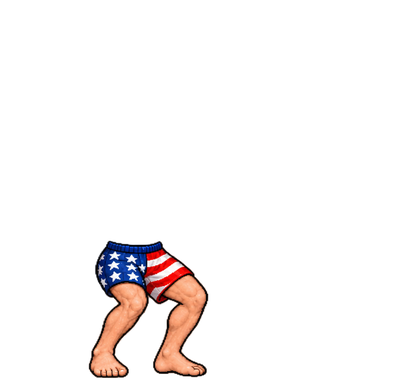
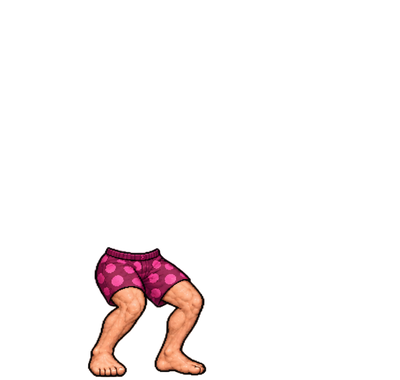
Kunte's bare shorts are polka dots in every pose
Attack and block use the polka shorts cell from the atlas; the standing pose recolors the shared body's shorts to the same magenta polka pattern. Espa keeps the flag shorts.

Claude-Session: https://claude.ai/code/session_012zVcprR4KorysHkABMXdfX

Changed region(s): [[0.21, 0.6368, 0.54, 1.0]]

diff --git a/farmeando/public/game.js b/farmeando/public/game.js
@@ -795,8 +795,8 @@ function loop(now) { const dt = Math.min(0.05, (now - last) / 1000 || 0); last =
   await Promise.all([
     ...['kunte', 'espa'].flatMap(c => ['guard', 'attack', 'block', 'hit', 'win1', 'win2'].map(p => loadImg(c + '_' + p, 'assets/' + c + '_' + p + '.png?v=14'))),
     ...['kunte', 'espa'].flatMap(c => Object.keys(SILO_POSES).flatMap(pose => [
-      ...['sonrisa', 'grito', 'serio', 'sonrisilla'].map(fn => loadImg(c + '_' + pose + '_face_' + fn, 'assets/silo/' + c + '_' + pose + '_face_' + fn + '.png?v=19')),
-      ...[0, 1, 2, 3, 4].flatMap(i => [loadImg(c + '_' + pose + '_saco_' + i, 'assets/silo/' + c + '_' + pose + '_saco_' + i + '.png?v=19'), loadImg(c + '_' + pose + '_panta_' + i, 'assets/silo/' + c + '_' + pose + '_panta_' + i + '.png?v=19')])
+      ...['sonrisa', 'grito', 'serio', 'sonrisilla'].map(fn => loadImg(c + '_' + pose + '_face_' + fn, 'assets/silo/' + c + '_' + pose + '_face_' + fn + '.png?v=20')),
+      ...[0, 1, 2, 3, 4].flatMap(i => [loadImg(c + '_' + pose + '_saco_' + i, 'assets/silo/' + c + '_' + pose + '_saco_' + i + '.png?v=20'), loadImg(c + '_' + pose + '_panta_' + i, 'assets/silo/' + c + '_' + pose + '_panta_' + i + '.png?v=20')])
     ])),
     fetch('assets/fx/fx.json?v=7').then(r => r.json()).then(j => { FXM = j; return Promise.all(Object.keys(j).map(k => loadImg('fx_' + k, 'assets/fx/' + k + '.png?v=7'))); }).catch(() => { }),
     loadImg('kunte_ko', 'assets/kunte_ko.png'), loadImg('espa_ko', 'assets/espa_ko.png'),

diff --git a/farmeando/public/index.html b/farmeando/public/index.html
@@ -110,6 +110,6 @@
     </div>
   </div>
 </div>
-<script src="game.js?v=20"></script>
+<script src="game.js?v=21"></script>
 </body>
 </html>
